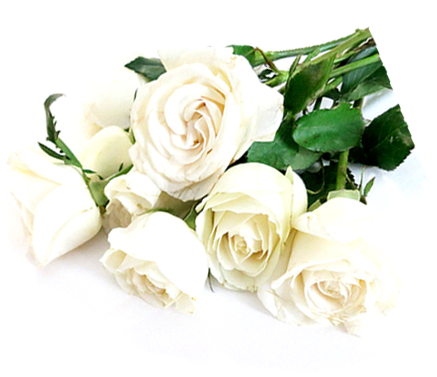
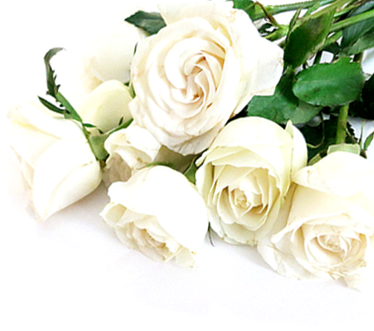
- adds single product style - updates holiday gift ideas page 1 decoration image

diff --git a/assets/stylesheets/app/page.scss b/assets/stylesheets/app/page.scss
@@ -52,11 +52,9 @@ article.page {
   .cover-area {
     @include box-sizing(border-box);
     min-height: 300px;
-
     width: 100%;
     height: auto;
     background-position: center;
-
     background-size: cover;
     background-repeat: no-repeat;
 
@@ -377,6 +375,36 @@ article.page {
 
   &.image-background.right {
     text-align: right;
+  }
+
+  .single-product {
+    position: relative;
+    overflow: hidden;
+
+    .thumb-image {
+      float: left;
+      width: 180px;
+      height: 180px;
+      background-position: center;
+      background-size: cover;
+      background-repeat: no-repeat;
+    }
+
+    .title {
+      font-size: 24px;
+      font-family: "EB Garamond";
+    }
+
+    .subtitle {
+      margin: 0;
+    }
+
+    .button {
+      position: absolute;
+      right: 0;
+      bottom: 0;
+      margin: 0;
+    }
   }
 }
 

diff --git a/issues/holiday/assets/custom.css b/issues/holiday/assets/custom.css
@@ -317,8 +317,8 @@ article.page[data-page="7-holiday-gift-ideas/1"] .image img {
 
 article.page[data-page="7-holiday-gift-ideas/1"] #img-1 {
   position: absolute;
-  top: -50px;
-  right: -68px;
+  top: 0;
+  right: 0;
 }
 
 article.page[data-page="7-holiday-gift-ideas/1"] #summary {

diff --git a/issues/holiday/data/2-cate-says-si/3.md b/issues/holiday/data/2-cate-says-si/3.md
@@ -15,11 +15,9 @@ Si emanates a soft yet sultry feel to any women who wish to try it. It’s chypr
 
 The character of the Si woman is mimicked through the design aesthetic of the glass flacon, playing on the duality between strength and lightness. The Si bottle is simultaneously structured and simple. With its form being neither sharply squared nor spherical, its natural elegance makes it a timeless piece for any woman’s dressing  table.
 
-<img src="/holiday/assets/2-cate-says-si/p3-1.jpg" alt="" style="width: 180px;">
-
-
-<div class="">
-  <h3>Giorgio Armani Sì </h3>
-  <p>EDP 100ml</p>
-  <a class="outline hotspot" title="Giorgio Armani Si is availabile in store in Myer or Danvid Jones " href="">SHOP NOW</a> <span class="price">$230</span>
+<div class="single-product">
+  <div class="thumb-image" style="background-image:url('/holiday/assets/2-cate-says-si/p3-1.jpg')"></div>
+  <h2 class="title">Giorgio Armani Sì</h2>
+  <p class="subtitle">EDP 100ml, $230</p>
+  <a class="button outline hotspot" title="Giorgio Armani Si is availabile in store in Myer or Danvid Jones " href="">SHOP NOW</a>
 </div>
